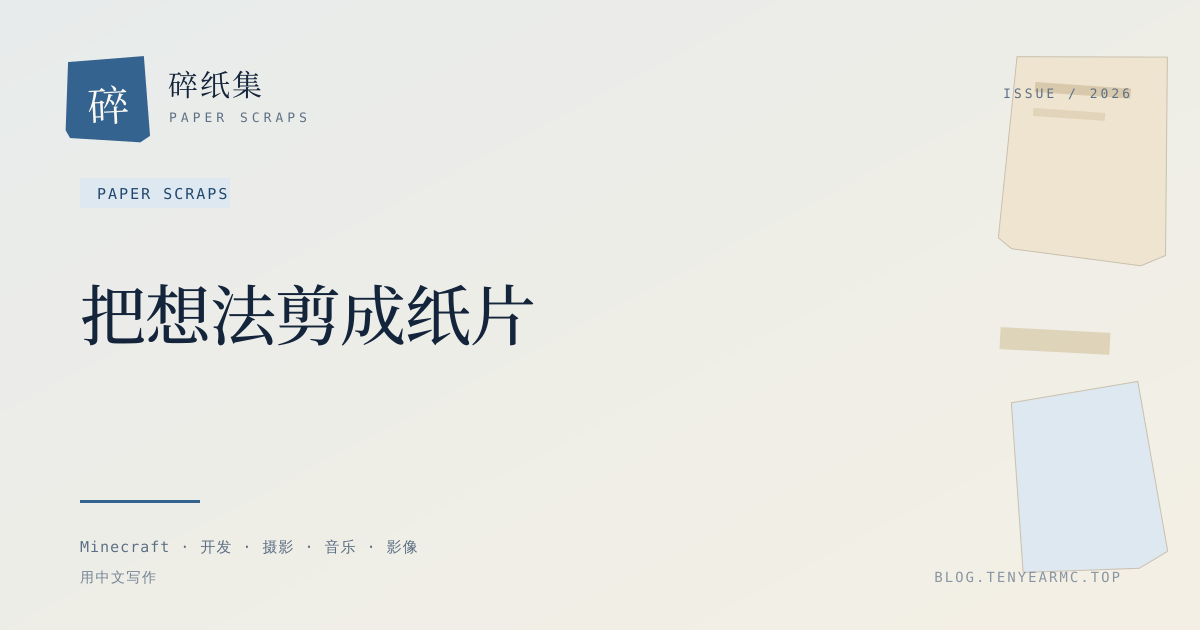
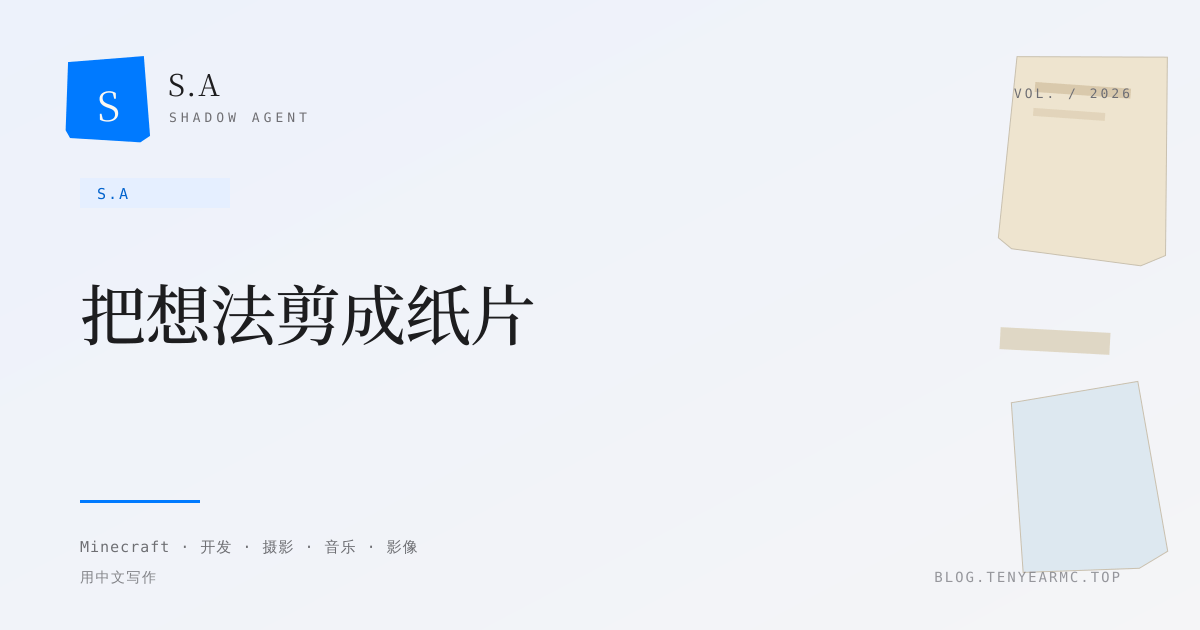
feat: 站名改为 S.A，统一专业文案
- 站名与英文名统一为 S.A，品牌标记改为 S
- 清理站内比喻式文案，文章、分类、搜索、归档、页脚改为专业表述
- 关于页专业方向与技术实现文案同步调整
- OG 图更新为 S.A 品牌与 macOS 配色

diff --git a/src/site.config.ts b/src/site.config.ts
@@ -3,13 +3,13 @@
  * 所有可替换的占位信息都集中在 site 对象里，改完即生效。
  */
 export const site = {
-  name: '碎纸集',
-  nameEn: 'Paper Scraps',
-  tagline: '把想法剪成纸片',
+  name: 'S.A',
+  nameEn: 'S.A',
+  tagline: '开发、摄影与影像记录',
   description:
-    '十年之约服主、Paper 插件开发者，也做 Web、摄影、音乐与影像。把多重身份剪成纸片，贴在同一张桌子上。',
+    'shadow_agent404 的个人站点，记录 Minecraft 服务端开发、Paper 插件、Web 工程、摄影、音乐与影像。',
   descriptionEn:
-    'Founder of TenYearMC, Paper plugin developer — also web, photography, music and video. Multiple identities, cut into paper scraps.',
+    'Personal site of shadow_agent404, covering Minecraft server development, Paper plugins, web engineering, photography, music and video.',
   url: 'https://blog.tenyearmc.top',
   author: 'shadow_agent404',
   handle: '@shadow_agent404',
